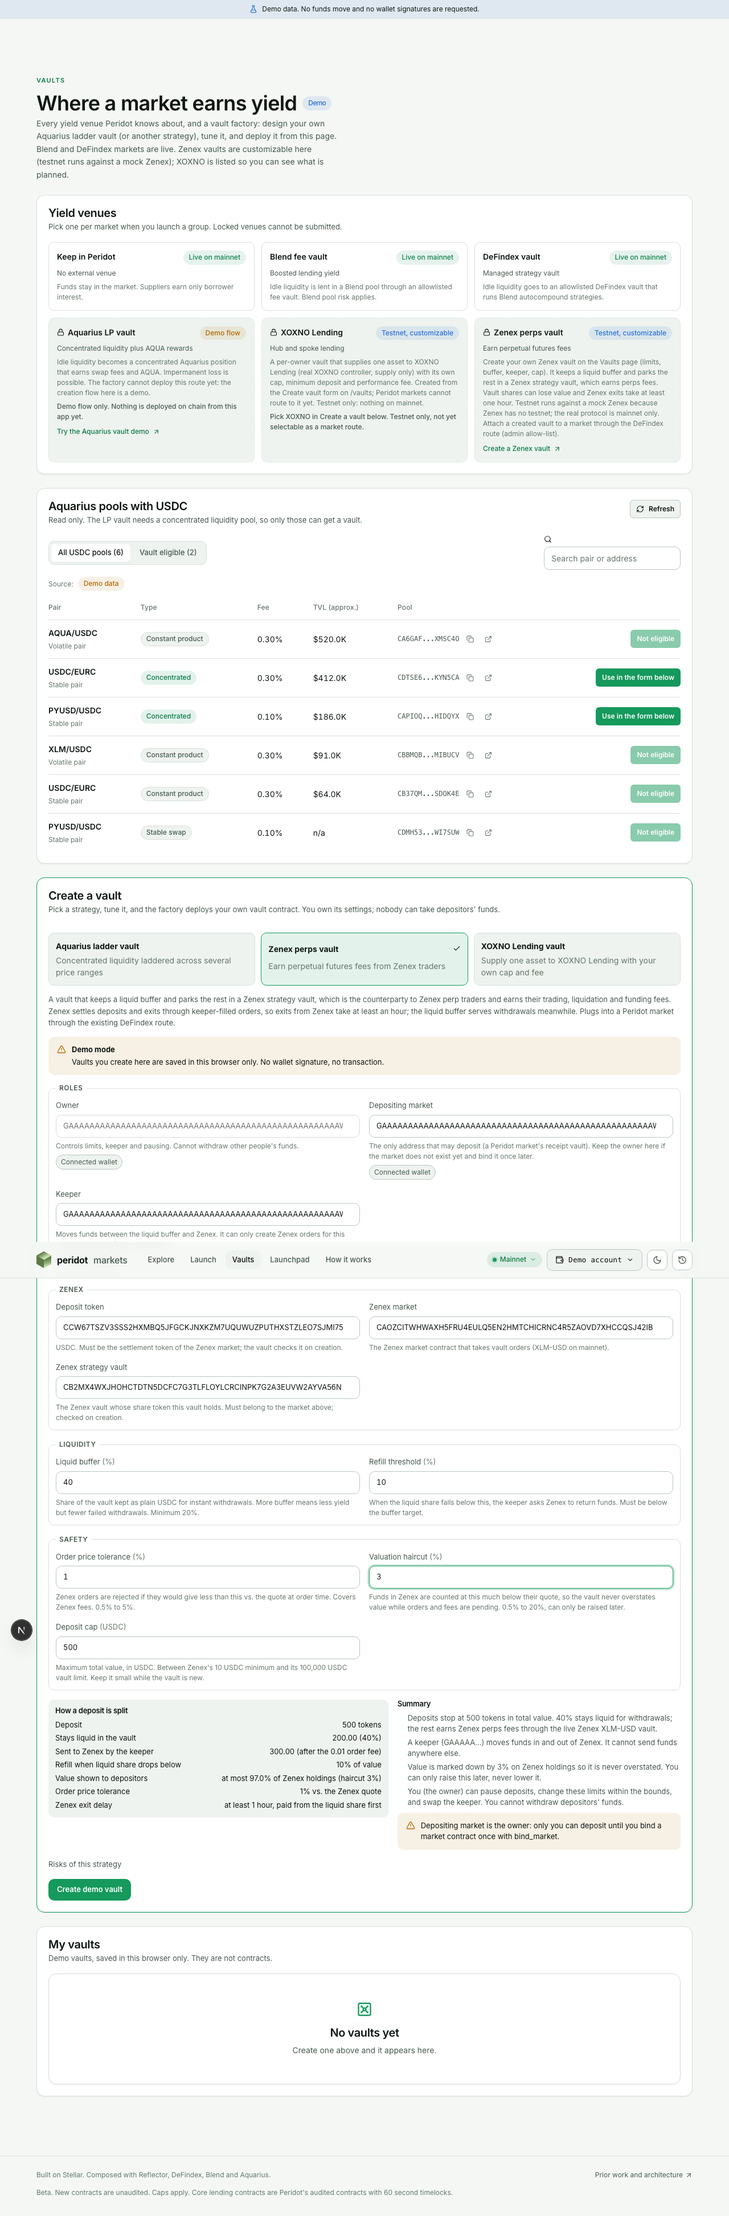
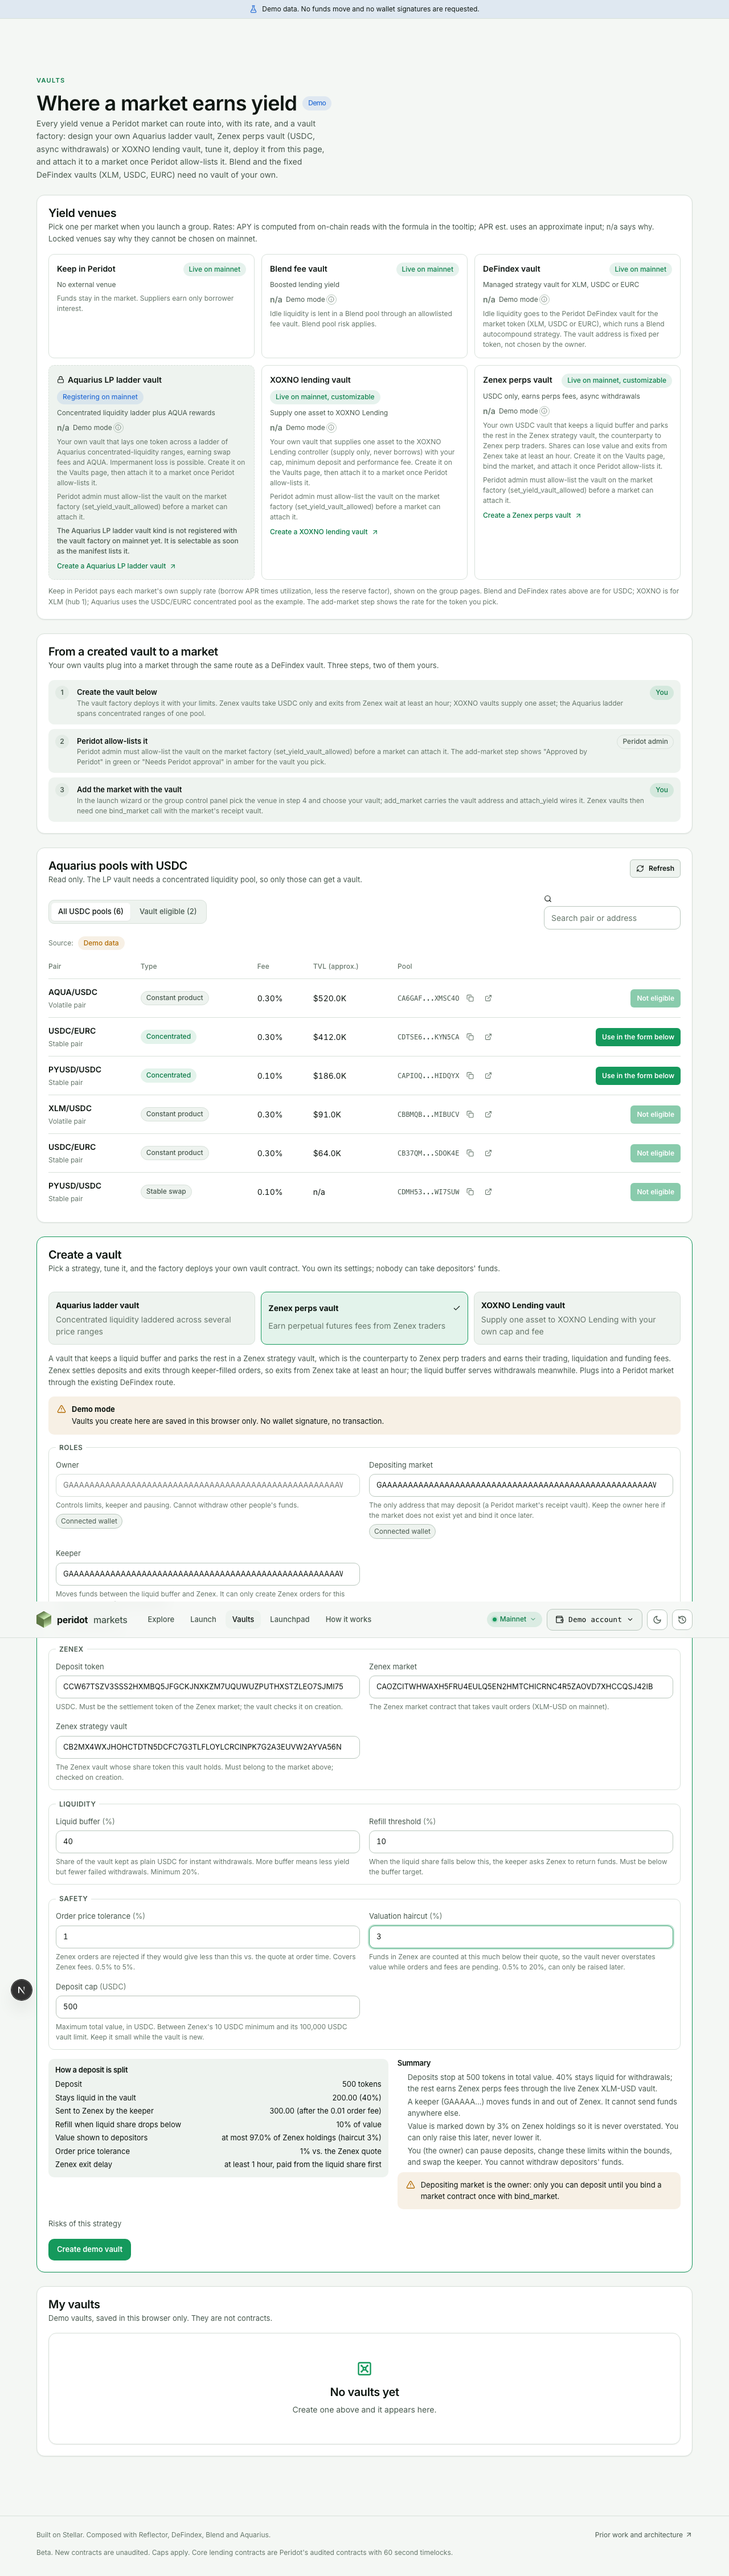
vault step: phone layout, plain rates inside button cards, e2e screenshots

diff --git a/app/tests/e2e/vaults-flows.spec.ts b/app/tests/e2e/vaults-flows.spec.ts
@@ -44,7 +44,7 @@ test('vault options and the Aquarius registry list USDC pools and create a label
   await expect(page.getByRole('heading', { name: 'Create a vault', exact: true })).toBeVisible();
   await expect(page.locator('#vf-pool')).toHaveValue(/^C/);
   await expect(page.getByTestId('ladder-preview')).toBeVisible();
-  await expect(page.getByText('Demo mode')).toBeVisible();
+  await expect(page.getByText('Demo mode', { exact: true })).toBeVisible();
 
   // Live validation: out-of-range values block submission and say why.
   await page.locator('#vf-rungs').fill('9');
@@ -66,16 +66,16 @@ test('vault options and the Aquarius registry list USDC pools and create a label
 test('the launch wizard vault step: fixed DeFindex default per token, created-vault venues, allow-list state, no free-form vault address', async ({ page }) => {
   const errors: string[] = [];
   page.on('pageerror', e => errors.push(e.message));
+  page.on('console', m => { if (m.type() === 'error') errors.push(`console: ${m.text().slice(0, 200)}`); });
   await page.goto('/launch');
   await page.getByLabel(/Group name/).fill('VaultCheck');
   await page.getByRole('button', { name: 'Continue', exact: true }).click();
   const all = page.getByRole('group', { name: 'All yield options' }).first();
   await expect(all).toBeVisible();
-  // Aquarius is not registered on mainnet yet (manifest), DeFindex waits for a verified token, Zenex and XOXNO are selectable.
+  // Aquarius is not registered on mainnet yet (manifest); DeFindex, Zenex and XOXNO are selectable (the demo draft starts with USDC verified).
   await expect(all.locator('[data-vault="aquarius"]')).toHaveAttribute('aria-disabled', 'true');
   await expect(all.locator('[data-vault="aquarius"]')).toContainText('Registering on mainnet');
-  await expect(all.locator('[data-vault="defindex"]')).toHaveAttribute('aria-disabled', 'true');
-  await expect(all.locator('[data-vault="defindex"]')).toContainText('Verify a token first');
+  await expect(all.locator('[data-vault="defindex"]')).toHaveAttribute('aria-pressed', 'false');
   await expect(all.getByText('Coming soon, not active in this demo.')).toHaveCount(0);
 
   await all.getByRole('button', { name: /Zenex perps vault/ }).click();
@@ -91,11 +91,8 @@ test('the launch wizard vault step: fixed DeFindex default per token, created-va
   await expect(all.getByRole('button', { name: /Keep in Peridot/ })).toHaveAttribute('aria-pressed', 'true');
   await expect(page.getByTestId('yield-idle').first()).toContainText('from your rate curve');
 
-  // Verify USDC: DeFindex unlocks with the fixed Peridot USDC vault, read-only, and its allow-list state.
-  await page.getByLabel('Token contract address').first().fill(MOCK_USDC);
-  await page.getByRole('button', { name: 'Verify token and price feed', exact: true }).first().click();
-  await expect(page.getByText(/USDC .* Approved Reflector mapping/).first()).toBeVisible();
-  await expect(all.locator('[data-vault="defindex"]')).toHaveAttribute('aria-disabled', 'false');
+  // USDC market: DeFindex is the fixed Peridot USDC vault, read-only, with its allow-list state.
+  await expect(page.getByLabel('Token contract address').first()).toHaveValue(MOCK_USDC);
   await all.getByRole('button', { name: /DeFindex vault/ }).click();
   const fixed = page.getByTestId('defindex-default').first();
   await expect(fixed).toContainText('Default DeFindex vault for USDC');
@@ -117,8 +114,9 @@ test('the launch wizard vault step: fixed DeFindex default per token, created-va
   await page.setViewportSize({ width: 375, height: 900 });
   await step.scrollIntoViewIfNeeded();
   await step.screenshot({ path: '../docs/ui/vaultstep-mobile.png' });
-  const overflow = await page.evaluate(() => document.documentElement.scrollWidth - document.documentElement.clientWidth);
-  expect(overflow).toBeLessThanOrEqual(0);
+  // The vault step itself fits the phone width (the wizard header is outside this step's scope).
+  const stepOverflow = await step.evaluate(el => Math.max(0, ...Array.from(el.querySelectorAll('*')).map(e => e.getBoundingClientRect().right)) - window.innerWidth);
+  expect(stepOverflow).toBeLessThanOrEqual(0);
   expect(errors).toEqual([]);
 });
 

diff --git a/app/src/components/vaults/YieldRate.tsx b/app/src/components/vaults/YieldRate.tsx
@@ -15,6 +15,8 @@ export interface YieldRateProps {
   quote?: YieldQuote;
   /** Show the facts list under the number. */
   facts?: boolean;
+  /** Render the formula as a hover title instead of a tooltip button (needed inside a button card: no nested buttons). */
+  plain?: boolean;
 }
 
 export type QuoteState = { status: 'loading' } | { status: 'ready'; quote: YieldQuote } | { status: 'error'; message: string };
@@ -33,16 +35,18 @@ export function useYieldQuote(venue: VaultId, opts: { token?: string; vault?: st
 }
 
 /** APY / APR est. / n/a with the formula in a tooltip. Loading and failure states are explicit; numbers are never invented. */
-export function YieldRate({ venue, token, vault, pool, quote, facts }: YieldRateProps) {
+export function YieldRate({ venue, token, vault, pool, quote, facts, plain }: YieldRateProps) {
   const live = useYieldQuote(venue, { token, vault, pool }, !quote);
   const state: QuoteState = quote ? { status: 'ready', quote } : live;
   if (state.status === 'loading') return <span className="yield-rate" data-testid={`yield-${venue}`} aria-busy="true"><Skeleton width={64} height={16} /><span className="yield-label">reading rate</span></span>;
-  if (state.status === 'error') return <span className="yield-rate na" data-testid={`yield-${venue}`}><span className="yield-value">n/a</span><span className="yield-label">rate unavailable<Tooltip text={`The read failed: ${state.message}`} label="Why the rate is unavailable" /></span></span>;
+  if (state.status === 'error') return <span className="yield-rate na" data-testid={`yield-${venue}`} title={plain ? `The read failed: ${state.message}` : undefined}><span className="yield-value">n/a</span><span className="yield-label">rate unavailable{!plain && <Tooltip text={`The read failed: ${state.message}`} label="Why the rate is unavailable" />}</span></span>;
   const q = state.quote;
   const tone = q.kind === 'na' ? 'na' : q.kind === 'apr-est' ? 'est' : 'live';
-  return <span className={`yield-rate ${tone}`} data-testid={`yield-${venue}`}>
+  const inputs = q.facts.map(([k, v]) => `${k}: ${v}`).join('; ');
+  const explain = `${q.kind === 'na' && q.reason ? `Why no rate: ${q.reason} ` : ''}How it is computed: ${q.formula}${inputs ? ` Inputs: ${inputs}.` : ''}`;
+  return <span className={`yield-rate ${tone}`} data-testid={`yield-${venue}`} title={plain ? explain : undefined}>
     <span className="yield-value num">{fmtRate(q)}</span>
-    <span className="yield-label">{q.kind === 'na' ? (q.reason ? 'n/a' : q.label) : q.label}<Tooltip text={<span>{q.kind === 'na' && q.reason ? <><strong>Why no rate:</strong> {q.reason} </> : null}<strong>How it is computed:</strong> {q.formula}{q.facts.length > 0 && <> <strong>Inputs:</strong> {q.facts.map(([k, v]) => `${k}: ${v}`).join('; ')}.</>}</span>} label={`How the ${q.label} is computed`} /></span>
+    <span className="yield-label">{q.kind === 'na' ? (q.reason ? q.reason.split(/[:.]/)[0] : q.label) : q.label}{!plain && <Tooltip text={<span>{q.kind === 'na' && q.reason ? <><strong>Why no rate:</strong> {q.reason} </> : null}<strong>How it is computed:</strong> {q.formula}{inputs && <> <strong>Inputs:</strong> {inputs}.</>}</span>} label={`How the ${q.label} is computed`} />}</span>
     {facts && q.facts.length > 0 && <span className="yield-facts">{q.facts.map(([k, v]) => <span key={k}><span className="muted">{k}</span> {v}</span>)}</span>}
   </span>;
 }

diff --git a/app/src/components/vaults/VaultOptionList.tsx b/app/src/components/vaults/VaultOptionList.tsx
@@ -39,18 +39,19 @@ export function VaultOptionList({ selected, onSelect, disabled, compact, ariaLab
       const reason = extra ?? a.reason;
       const isSelected = selected === option.id;
       const rate = rateFor?.(option);
+      const asButton = live && !!onSelect;
       const body = <>
         <span className="vault-option-top">
           <span className="vault-option-name">{isSelected && <Check size={14} aria-hidden />}{!live && !isSelected && <Lock size={13} aria-hidden />}{option.name}</span>
           <Badge tone={a.tone}>{a.label}</Badge>
         </span>
         <span className="vault-option-tag">{option.tagline}</span>
-        {rate && <YieldRate venue={option.id} {...rate} />}
+        {rate && <YieldRate venue={option.id} {...rate} plain={asButton} />}
         {!compact && <span className="vault-option-detail">{option.detail}</span>}
         {!compact && option.kind && <span className="vault-option-detail">{APPROVAL_COPY}</span>}
         {!live && reason && <span className="vault-option-note">{reason}</span>}
       </>;
-      if (live && onSelect) {
+      if (asButton) {
         return <button key={option.id} type="button" className={`vault-option selectable${isSelected ? ' selected' : ''}`} aria-pressed={isSelected} disabled={disabled} data-vault={option.id} onClick={() => onSelect(option)}>{body}</button>;
       }
       return <div key={option.id} className={`vault-option${live ? '' : ' locked'}`} aria-disabled={!live} data-vault={option.id}>

diff --git a/app/src/components/vaults/vaults.css b/app/src/components/vaults/vaults.css
@@ -134,3 +134,12 @@
 .yield-facts { display: flex; flex-wrap: wrap; gap: 4px 12px; width: 100%; font-size: 11px; color: var(--text-2); }
 .vault-fixed .kv > div > span:first-child { min-width: 92px; }
 .chip.selected { border-color: var(--accent); background: var(--accent-soft); color: var(--accent-text); }
+.vault-option-top { flex-wrap: wrap; }
+.vault-fixed .kv > div { flex-wrap: wrap; }
+.vault-fixed .kv > div > span:last-child { min-width: 0; display: flex; flex-wrap: wrap; justify-content: flex-end; gap: 4px 8px; }
+.vault-fixed .badge { white-space: normal; text-align: left; }
+@media (max-width: 760px) { .vault-fixed .kv > div > span:last-child { justify-content: flex-start; text-align: left; } }
+/* Hidden tooltip bubbles must not widen the page on phones: hide them fully until hovered or focused. */
+.yield-rate .tip-bubble, .vault-fixed .tip-bubble { display: none; max-width: min(280px, calc(100vw - 32px)); }
+.yield-rate .tip:hover .tip-bubble, .yield-rate .tip:focus-within .tip-bubble, .vault-fixed .tip:hover .tip-bubble, .vault-fixed .tip:focus-within .tip-bubble { display: block; }
+@media (max-width: 760px) { .yield-rate .tip-bubble, .vault-fixed .tip-bubble { left: auto; right: 0; transform: none; } }
